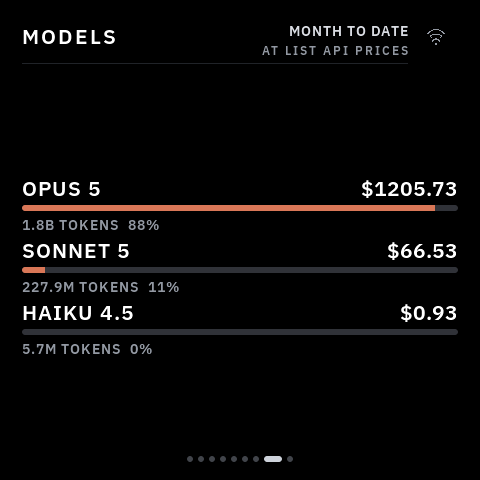
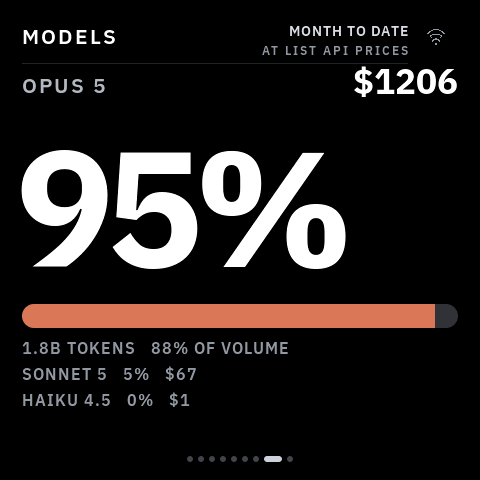
fix(vibepulse): rebuild the models page on the design system
The first cut was built from layout primitives without reading
design/vibepulse/studio-design.json or spec/ui-spec.md, and it showed:
three equal rows of 14-21 px type with 6 px bars. That is a spreadsheet,
on a screen meant to be read from across a room. The house shape is ONE
dominant metric with the family bar under it.

Rebuilt to that rhythm. The dearest model takes the quota pages' own
label row and their percent box verbatim -- same x, width, height and
-9 tracking -- so the hero does not move when you swipe between them.
Its dollars sit right-aligned on the label row, the standard 24 px bar
stays at VP_BAR_Y, and everything else is rounded to one quiet line.

Two defects only the 1:1 raster showed:

- Money drawn in plex_stat_35 rendered "$" as a missing-glyph box. The
  shared faces omit 0x24 deliberately -- test_vibepulse_layout_wiring
  asserts it, because carrying it would shift approved pages -- so money
  belongs in plex_money_35.
- The 164 px hero overflowed into the row beneath it. The quota pages
  survive that box only because nothing sits between the hero and the
  bar; moving the dollars up to the label row restores the same clearance
  and frees the band under the bar for the secondary models.

README frame refreshed to the rebuilt page.

Claude-Session: https://claude.ai/code/session_0194UWQZoRqVWYkFhB526Uec

Changed region(s): [[0.0312, 0.3125, 0.9688, 0.8438], [0.7188, 0.125, 0.9688, 0.2188], [0.0312, 0.1562, 0.2188, 0.2188]]

diff --git a/components/app_tokens/usage_screen.c b/components/app_tokens/usage_screen.c
@@ -170,19 +170,19 @@ _Static_assert(TK_USAGE_SCREEN_VIEWS ==
 
 /* ------------------------------------------------------------- models */
 
-/* One row per model: what it is, what it cost, how much of the month it is,
- * and how many tokens that took. The bar is sized by COST because that is
- * what the page is ranked by; the token figure sits under it precisely so
- * the disagreement between the two is visible rather than argued about. */
+/* Where the month went, built to the family's rhythm rather than as a table.
+ * The design system's shape is ONE dominant metric with the bar under it, and
+ * these pages are read from across a room: three equal rows of 14 px type is
+ * a spreadsheet. So the dearest model gets the quota hero's own font and
+ * baseline, and everything else is rounded to one quiet line each. */
 typedef struct {
   lv_obj_t *tile;
-  struct {
-    lv_obj_t *name;
-    lv_obj_t *usd;
-    lv_obj_t *track;
-    lv_obj_t *fill;
-    lv_obj_t *tokens;
-  } rows[TK_MODEL_ROWS_CAP];
+  lv_obj_t *name;   /* the dominant model, on the quota pages' label row */
+  lv_obj_t *hero;   /* its share of the month's cost */
+  lv_obj_t *money;  /* its dollars and tokens, secondary */
+  lv_obj_t *track;
+  lv_obj_t *fill;
+  lv_obj_t *rest[TK_MODEL_ROWS_CAP - 1];
   lv_obj_t *empty;
 } models_page;
 
@@ -614,24 +614,11 @@ static void create_burn_rate_page(void) {
  * y=349 puts its digit ink on the family's 352 row. Do not "fix" to 352. */
 #define VALUE_STAT_Y 349
 
-/* The rows are centred in the band between the header hairline and the
- * pager rather than pinned to the top, because the count is the user's, not
- * ours: three models top-aligned leave the lower third empty and read as a
- * page that failed to finish loading. Positions are therefore set when the
- * data arrives, not when the page is built. */
-#define MODELS_BAND_TOP 96
-#define MODELS_BAND_BOTTOM 440
-#define MODELS_ROW_H 62
-#define MODELS_BAR_H 6
-#define MODELS_NAME_W 250
-
-static int models_row_y(int index, int count) {
-  int block = count * MODELS_ROW_H;
-  int band = MODELS_BAND_BOTTOM - MODELS_BAND_TOP;
-  int top = MODELS_BAND_TOP + (band - block) / 2;
-  if (top < MODELS_BAND_TOP) top = MODELS_BAND_TOP;
-  return top + index * MODELS_ROW_H;
-}
+#define MODELS_NAME_Y 72
+#define MODELS_MONEY_Y 66   /* money runs 35 px tall; sits on the name row */
+#define MODELS_HERO_Y 150
+#define MODELS_REST_Y0 340
+#define MODELS_REST_H 26
 
 static void create_models_page(void) {
   models_page *page = &ui.models;
@@ -640,46 +627,64 @@ static void create_models_page(void) {
   create_analytics_header(page->tile, "MODELS", "MONTH TO DATE",
                           "AT LIST API PRICES");
 
-  for (int index = 0; index < TK_MODEL_ROWS_CAP; index++) {
-    int y = models_row_y(index, TK_MODEL_ROWS_CAP);
-    page->rows[index].name = label(page->tile, &plex_ui_21, COL_WHITE,
-                                   VP_SAFE_X, y, MODELS_NAME_W, 28);
-    lv_obj_set_style_text_letter_space(page->rows[index].name, 1, 0);
+  /* Same label row the quota pages use, so swiping between them does not
+   * move the eye. */
+  page->name = label(page->tile, &plex_ui_21, COL_LABEL,
+                     VP_SAFE_X, MODELS_NAME_Y, 200, 26);
+  lv_obj_set_style_text_letter_space(page->name, 2, 0);
 
-    page->rows[index].usd = label(page->tile, &plex_ui_21, COL_WHITE,
-                                  VP_SAFE_X + MODELS_NAME_W, y,
-                                  VP_CONTENT_W - MODELS_NAME_W, 28);
-    lv_obj_set_style_text_align(page->rows[index].usd,
-                                LV_TEXT_ALIGN_RIGHT, 0);
+  /* The quota pages' percent box, verbatim -- same x, width, height and
+   * tracking -- so the number does not jump when you swipe between them and
+   * a three-glyph value cannot spill into the row below. */
+  page->hero = label(page->tile, &plex_num_164, COL_WHITE,
+                     16, VP_PERCENT_Y, 448, 190);
+  lv_obj_set_style_text_letter_space(page->hero, -9, 0);
+  lv_label_set_text(page->hero, "\u2013");
 
-    page->rows[index].track = bare(page->tile);
-    lv_obj_set_pos(page->rows[index].track, VP_SAFE_X, y + 30);
-    lv_obj_set_size(page->rows[index].track, VP_CONTENT_W, MODELS_BAR_H);
-    lv_obj_set_style_radius(page->rows[index].track, LV_RADIUS_CIRCLE, 0);
-    lv_obj_set_style_bg_opa(page->rows[index].track, LV_OPA_COVER, 0);
-    lv_obj_set_style_bg_color(page->rows[index].track, COL_TRACK, 0);
-    lv_obj_set_style_clip_corner(page->rows[index].track, true, 0);
+  /* plex_money_35, not the shared stat font: the shared faces deliberately
+   * omit '$' (it would shift approved pages), so a dollar sign drawn in one
+   * lands on the glass as a missing-glyph box. */
+  page->money = label(page->tile, &plex_money_35, COL_WHITE,
+                      VP_SAFE_X + 200, MODELS_MONEY_Y,
+                      VP_CONTENT_W - 200, 42);
+  lv_obj_set_style_text_align(page->money, LV_TEXT_ALIGN_RIGHT, 0);
 
-    page->rows[index].fill = bare(page->rows[index].track);
-    lv_obj_set_pos(page->rows[index].fill, 0, 0);
-    lv_obj_set_size(page->rows[index].fill, 0, MODELS_BAR_H);
-    lv_obj_set_style_bg_opa(page->rows[index].fill, LV_OPA_COVER, 0);
-    lv_obj_set_style_bg_color(page->rows[index].fill, COL_CLAUDE, 0);
+  page->track = bare(page->tile);
+  lv_obj_set_pos(page->track, VP_SAFE_X, VP_BAR_Y);
+  lv_obj_set_size(page->track, VP_CONTENT_W, VP_BAR_H);
+  lv_obj_set_style_radius(page->track, LV_RADIUS_CIRCLE, 0);
+  lv_obj_set_style_bg_opa(page->track, LV_OPA_COVER, 0);
+  lv_obj_set_style_bg_color(page->track, COL_TRACK, 0);
+  lv_obj_set_style_clip_corner(page->track, true, 0);
 
-    page->rows[index].tokens = label(page->tile, &plex_ui_14, COL_MUTED,
-                                     VP_SAFE_X, y + 40, VP_CONTENT_W, 18);
-    lv_obj_set_style_text_letter_space(page->rows[index].tokens, 1, 0);
+  page->fill = bare(page->track);
+  lv_obj_set_pos(page->fill, 0, 0);
+  lv_obj_set_size(page->fill, 0, VP_BAR_H);
+  lv_obj_set_style_bg_opa(page->fill, LV_OPA_COVER, 0);
+  lv_obj_set_style_bg_color(page->fill, COL_CLAUDE, 0);
+
+  for (int index = 0; index < TK_MODEL_ROWS_CAP - 1; index++) {
+    page->rest[index] = label(page->tile, &plex_ui_16, COL_MUTED,
+                              VP_SAFE_X,
+                              MODELS_REST_Y0 + index * MODELS_REST_H,
+                              VP_CONTENT_W, 24);
+    lv_obj_set_style_text_letter_space(page->rest[index], 1, 0);
   }
 
-  /* No split at all is dashes, never an empty chart: a blank page reads as
-   * "you used nothing this month", which would be a number we invented. */
   page->empty = label(page->tile, &plex_ui_21, COL_MUTED,
-                      VP_SAFE_X, (MODELS_BAND_TOP + MODELS_BAND_BOTTOM) / 2,
-                      VP_CONTENT_W, 30);
+                      VP_SAFE_X, MODELS_HERO_Y + 40, VP_CONTENT_W, 30);
   lv_obj_set_style_text_align(page->empty, LV_TEXT_ALIGN_CENTER, 0);
   lv_label_set_text(page->empty, "\u2013");
 
   create_pager(page->tile, VIEW_MODELS);
+}
+
+static void models_show_core(models_page *page, bool visible) {
+  lv_obj_t *parts[] = {page->name, page->hero, page->money, page->track};
+  for (size_t i = 0; i < sizeof parts / sizeof parts[0]; i++) {
+    if (visible) lv_obj_remove_flag(parts[i], LV_OBJ_FLAG_HIDDEN);
+    else lv_obj_add_flag(parts[i], LV_OBJ_FLAG_HIDDEN);
+  }
 }
 
 static void apply_models(const tk_tokens *tokens) {
@@ -691,53 +696,48 @@ static void apply_models(const tk_tokens *tokens) {
 
   if (!view.has_data) {
     lv_obj_remove_flag(page->empty, LV_OBJ_FLAG_HIDDEN);
-    for (int index = 0; index < TK_MODEL_ROWS_CAP; index++) {
-      lv_obj_add_flag(page->rows[index].name, LV_OBJ_FLAG_HIDDEN);
-      lv_obj_add_flag(page->rows[index].usd, LV_OBJ_FLAG_HIDDEN);
-      lv_obj_add_flag(page->rows[index].track, LV_OBJ_FLAG_HIDDEN);
-      lv_obj_add_flag(page->rows[index].tokens, LV_OBJ_FLAG_HIDDEN);
-    }
+    models_show_core(page, false);
+    for (int i = 0; i < TK_MODEL_ROWS_CAP - 1; i++)
+      lv_obj_add_flag(page->rest[i], LV_OBJ_FLAG_HIDDEN);
     return;
   }
   lv_obj_add_flag(page->empty, LV_OBJ_FLAG_HIDDEN);
+  models_show_core(page, true);
 
-  for (int index = 0; index < TK_MODEL_ROWS_CAP; index++) {
-    bool live = index < view.count;
-    if (!live) {
-      lv_obj_add_flag(page->rows[index].name, LV_OBJ_FLAG_HIDDEN);
-      lv_obj_add_flag(page->rows[index].usd, LV_OBJ_FLAG_HIDDEN);
-      lv_obj_add_flag(page->rows[index].track, LV_OBJ_FLAG_HIDDEN);
-      lv_obj_add_flag(page->rows[index].tokens, LV_OBJ_FLAG_HIDDEN);
+  const tk_models_row *top = &view.rows[0];
+  lv_label_set_text(page->name, top->name);
+
+  char text[64], compact[24];
+  /* Rounded on purpose: a shelf screen owes you the shape, not decimals. */
+  snprintf(text, sizeof text, "%d%%", (int)(top->cost_share * 100 + 0.5));
+  lv_label_set_text(page->hero, text);
+
+  snprintf(text, sizeof text, "$%.0f", top->usd);
+  lv_label_set_text(page->money, text);
+
+  int width = (int)(top->cost_share * VP_CONTENT_W + 0.5);
+  if (width < 0) width = 0;
+  if (width > VP_CONTENT_W) width = VP_CONTENT_W;
+  lv_obj_set_size(page->fill, width, VP_BAR_H);
+
+  compact_count((int32_t)top->tokens, compact, sizeof compact);
+  snprintf(text, sizeof text, "%s TOKENS   %d%% OF VOLUME", compact,
+           (int)(top->token_share * 100 + 0.5));
+  lv_label_set_text(page->rest[0], text);
+  lv_obj_remove_flag(page->rest[0], LV_OBJ_FLAG_HIDDEN);
+
+  for (int index = 1; index < TK_MODEL_ROWS_CAP - 1; index++) {
+    int row = index;
+    if (row >= view.count) {
+      lv_obj_add_flag(page->rest[index], LV_OBJ_FLAG_HIDDEN);
       continue;
     }
-    lv_obj_remove_flag(page->rows[index].name, LV_OBJ_FLAG_HIDDEN);
-    lv_obj_remove_flag(page->rows[index].usd, LV_OBJ_FLAG_HIDDEN);
-    lv_obj_remove_flag(page->rows[index].track, LV_OBJ_FLAG_HIDDEN);
-    lv_obj_remove_flag(page->rows[index].tokens, LV_OBJ_FLAG_HIDDEN);
-
-    int y = models_row_y(index, view.count);
-    lv_obj_set_y(page->rows[index].name, y);
-    lv_obj_set_y(page->rows[index].usd, y);
-    lv_obj_set_y(page->rows[index].track, y + 30);
-    lv_obj_set_y(page->rows[index].tokens, y + 40);
-
-    const tk_models_row *row = &view.rows[index];
-    lv_label_set_text(page->rows[index].name, row->name);
-
-    char money[24];
-    snprintf(money, sizeof money, "$%.2f", row->usd);
-    lv_label_set_text(page->rows[index].usd, money);
-
-    int width = (int)(row->cost_share * VP_CONTENT_W + 0.5);
-    if (width < 0) width = 0;
-    if (width > VP_CONTENT_W) width = VP_CONTENT_W;
-    lv_obj_set_size(page->rows[index].fill, width, MODELS_BAR_H);
-
-    char tokens_text[48], compact[24];
-    compact_count((int32_t)row->tokens, compact, sizeof compact);
-    snprintf(tokens_text, sizeof tokens_text, "%s TOKENS  %d%%",
-             compact, (int)(row->token_share * 100 + 0.5));
-    lv_label_set_text(page->rows[index].tokens, tokens_text);
+    lv_obj_remove_flag(page->rest[index], LV_OBJ_FLAG_HIDDEN);
+    const tk_models_row *r = &view.rows[row];
+    compact_count((int32_t)r->tokens, compact, sizeof compact);
+    snprintf(text, sizeof text, "%s   %d%%   $%.0f",
+             r->name, (int)(r->cost_share * 100 + 0.5), r->usd);
+    lv_label_set_text(page->rest[index], text);
   }
 }
 
